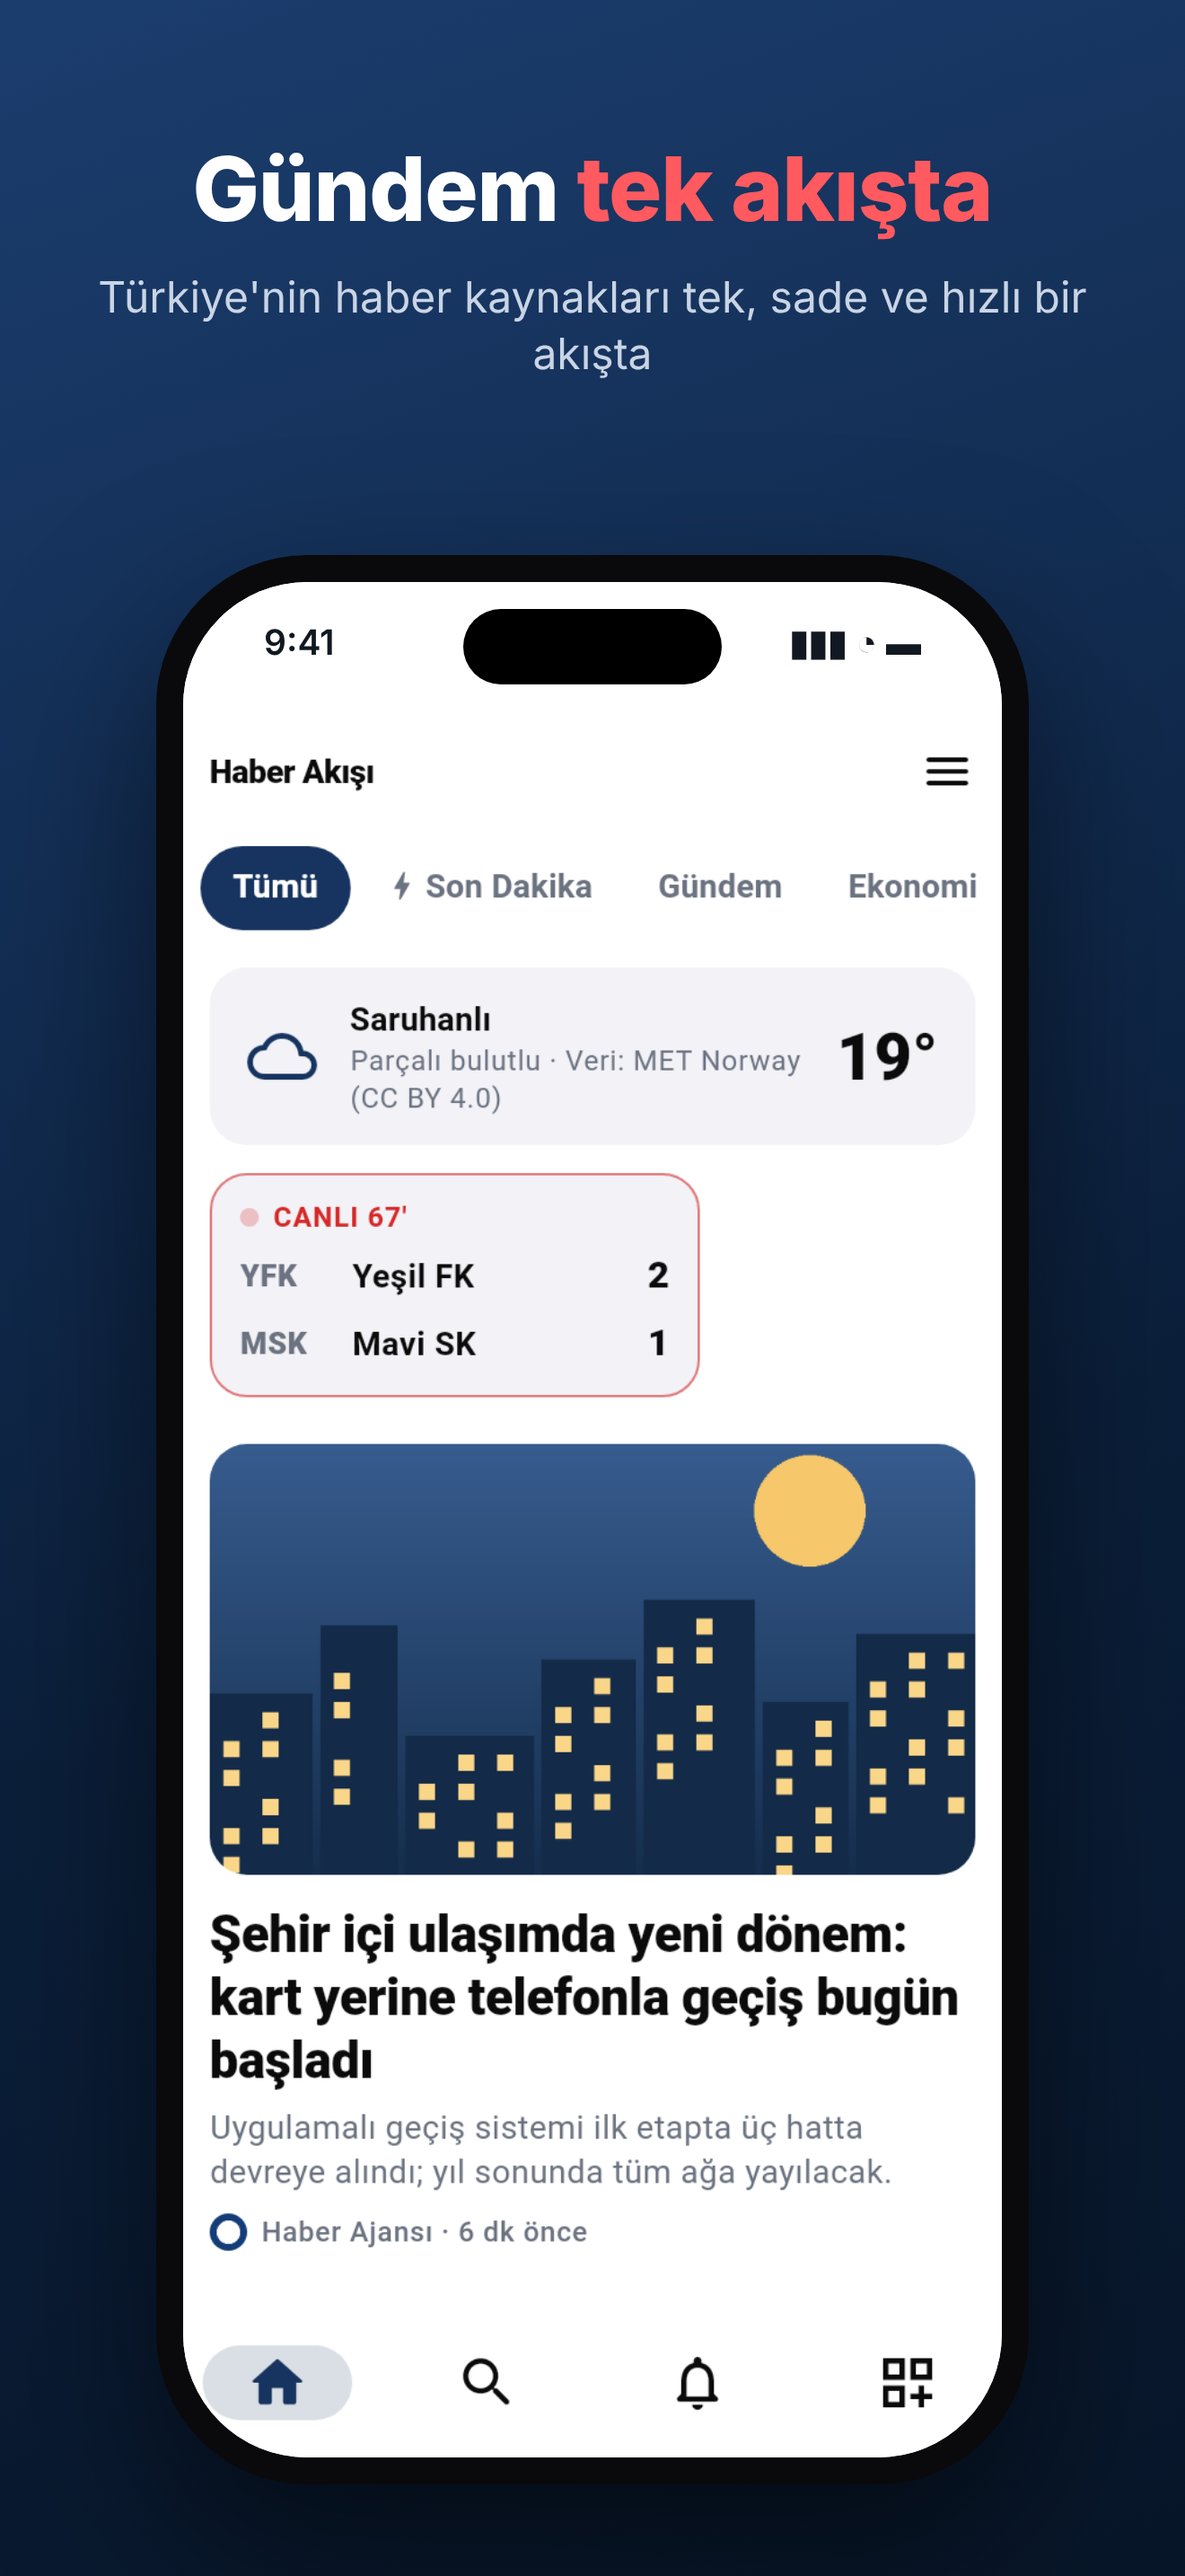
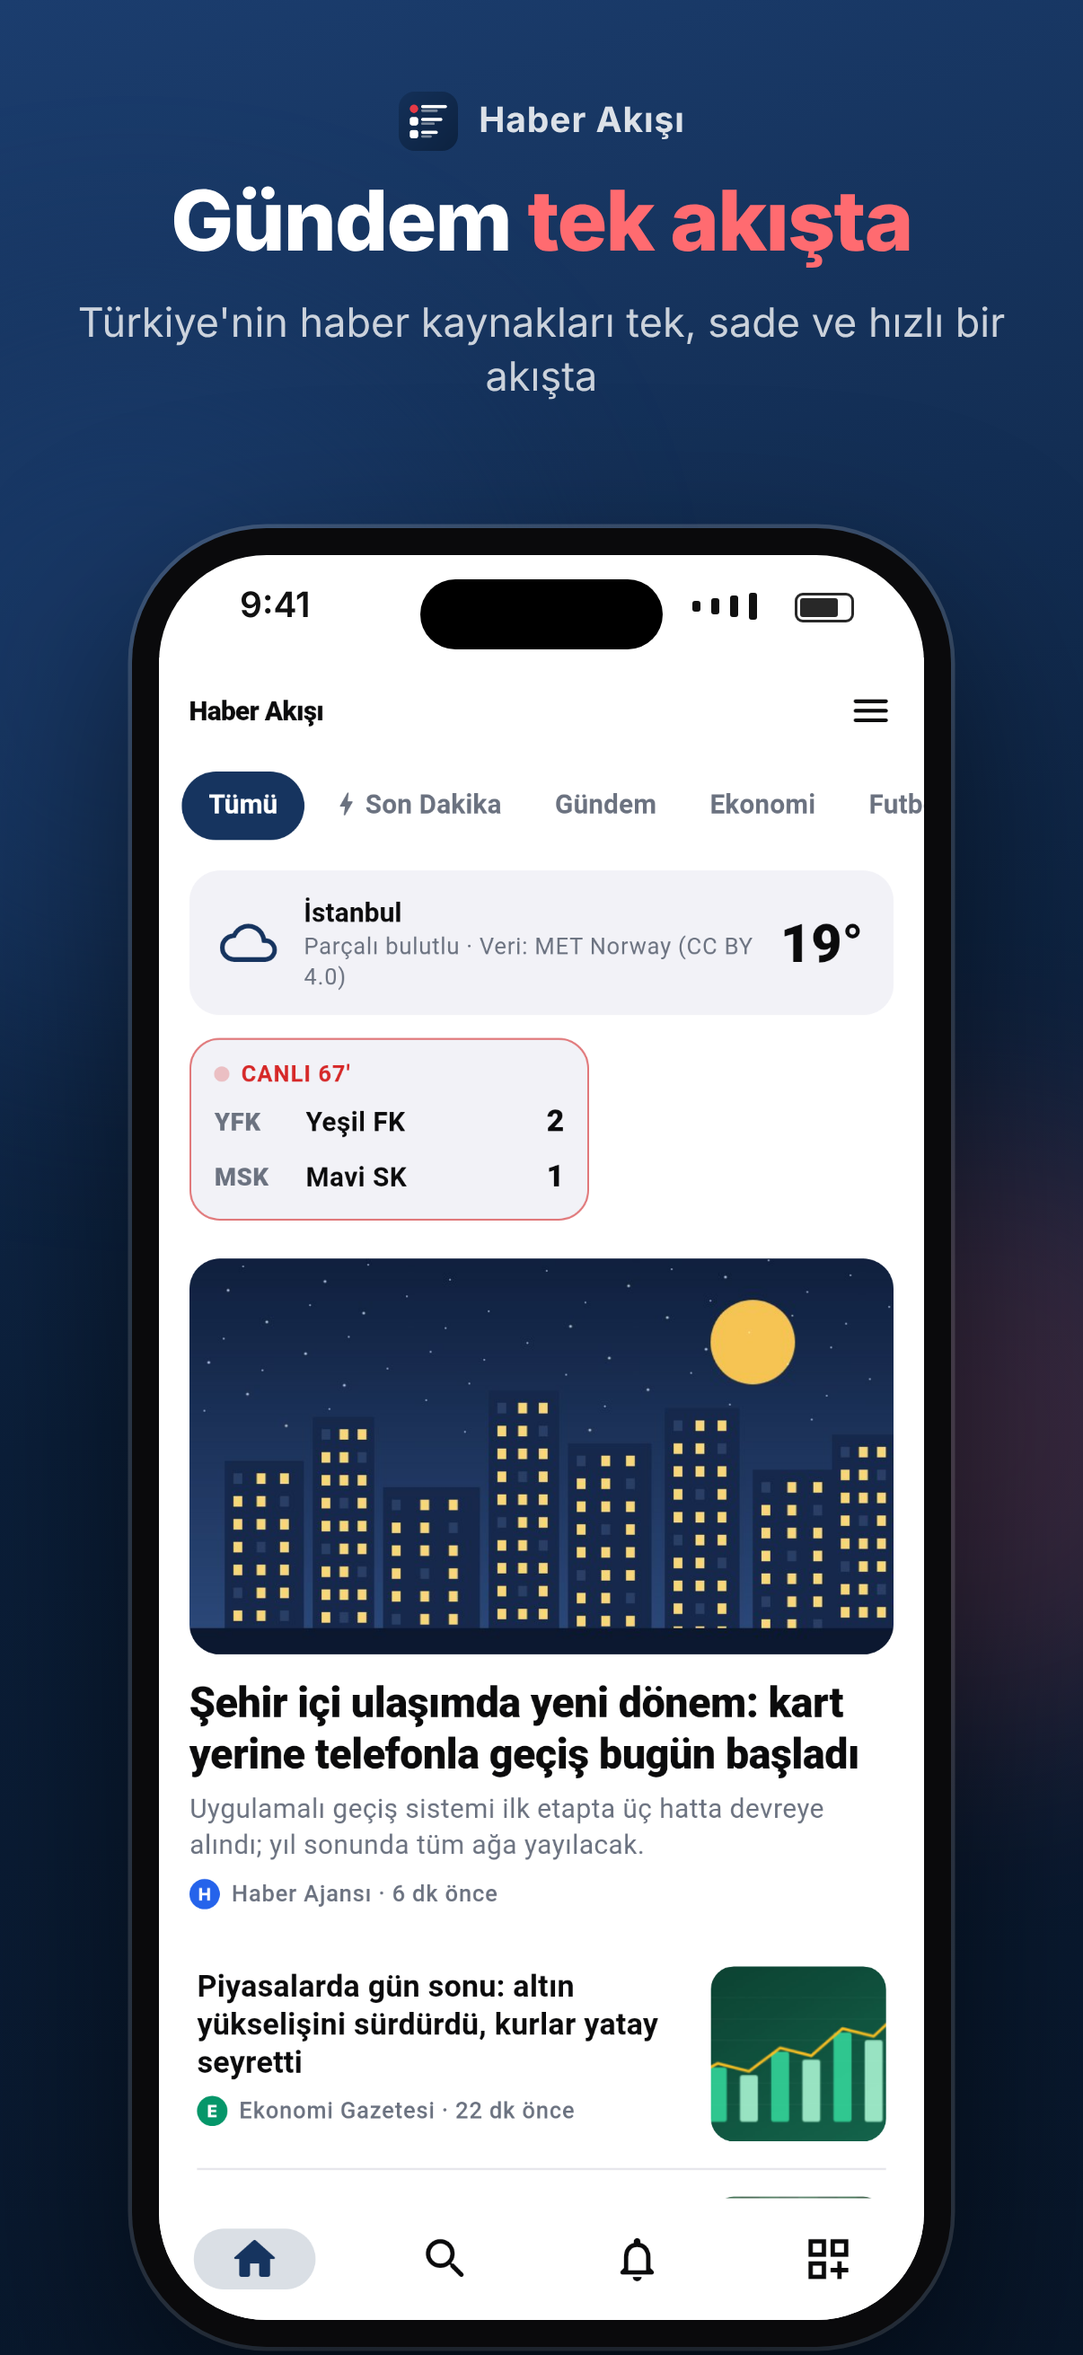
Tanıtım: son dakika ekranına daha fazla haber; App Store görselleri 9 adet 1206×2622
Claude-Session: https://claude.ai/code/session_01Q1LBDnWcxQXWdkeUuDQJoB

Changed region(s): [[0.092, 0.2162, 1.0, 1.0], [0.092, 0.0309, 0.9204, 0.1854], [0.4909, 0.4016, 0.675, 0.4325]]

diff --git a/news-aggregator/flutter_app/tool/promo/capture.dart b/news-aggregator/flutter_app/tool/promo/capture.dart
@@ -309,7 +309,7 @@ Future<void> _seed(FakeFirebaseFirestore db) async {
       '$img/haber-ekonomi.jpg',
       'ekonomi',
       22,
-      false,
+      true,
     ),
     (
       'a3',
@@ -318,7 +318,7 @@ Future<void> _seed(FakeFirebaseFirestore db) async {
       '$img/haber-futbol.jpg',
       'futbol',
       48,
-      false,
+      true,
     ),
     (
       'a4',
@@ -345,7 +345,7 @@ Future<void> _seed(FakeFirebaseFirestore db) async {
       '$img/haber-altin.jpg',
       'ekonomi',
       160,
-      false,
+      true,
     ),
     (
       'a6',
